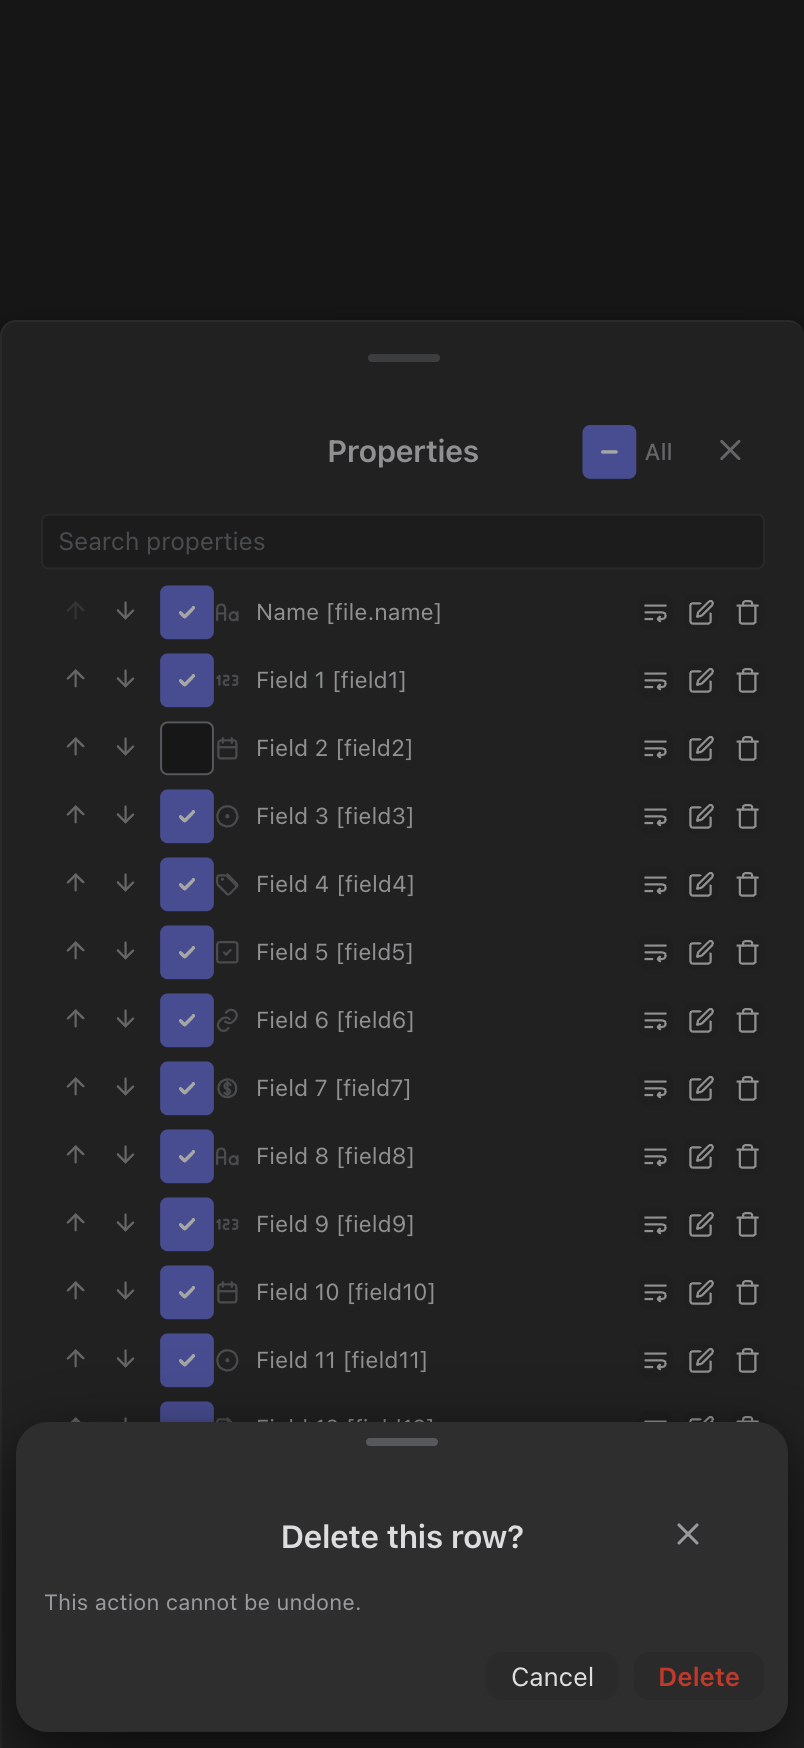
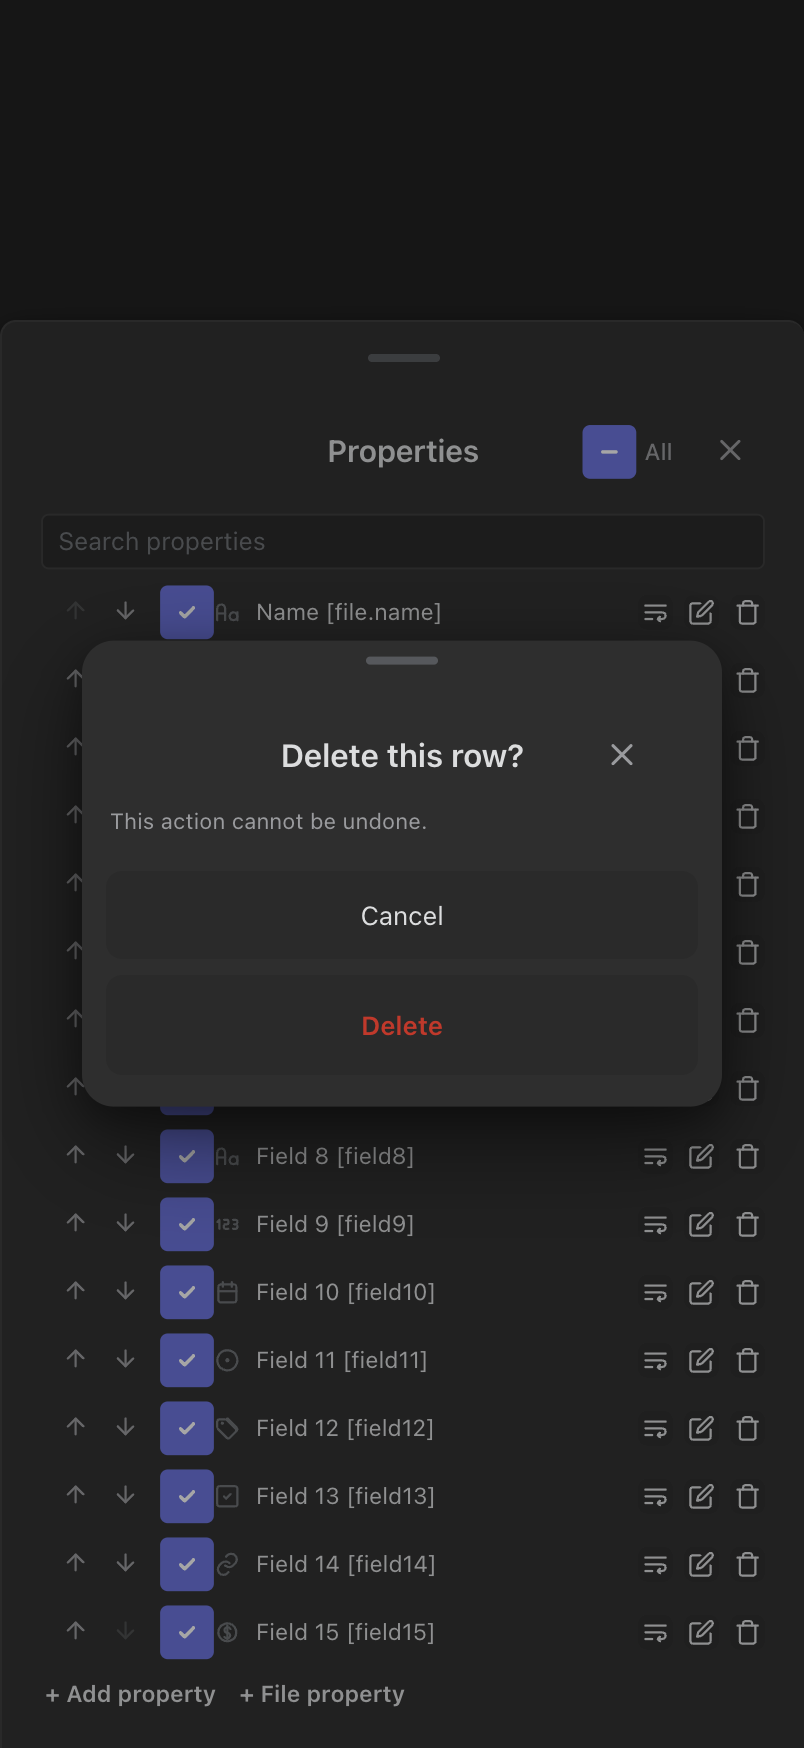
chore(gate): re-derive 061's evidence over 065's record-surface landing
Second rebase, this time onto 065-notion-record-refinement. main.js rebuilt,
every live artefact re-run by its own tool, the capture manifest and the
operator checklist regenerated, and the css lane merged append-only with the
baseline hash recomputed from the merged stylesheet.

The two stacked-confirm captures are recaptured rather than carried across:
065 gave the parent Properties sheet a search field and a taller header, and
the confirm card this packet declares now sits centred over that, so the
picture is the composition of both landings. Four other captures moved only
under the harness's own nondeterminism -- two consecutive runs on one tree
disagree on them -- and were restored to their committed bytes with their
manifest rows keeping the committed pixel hashes and the current source
hashes.

Gate 26/26, vitest 1551/1551, tsc clean, validate.sh --strict PASSED for 061
and for 067.

Claude-Session: https://claude.ai/code/session_0189jHyPTPhrWEWyeFyaGc9Q

diff --git a/specs/005-component-surface-system/operator-checklist.md b/specs/005-component-surface-system/operator-checklist.md
@@ -346,15 +346,10 @@ The figure beside each phase is a count of its own checkboxes. It is derived, ne
 
 - [ ] OPERATOR: the operator answers the adoption question at `../056-board-anytype-parity/notion-screens-digest.md:277-281` — ADR-004, ADR-010 and ADR-011, all three Accepted on the operator's 2026-09-06 18:36 rulings — before any code leg starts, and afterwards reads the Groups panel on iOS and on desktop and reports it as an improvement rather than a fourth place to hunt for a setting. Nothing in this repository can close this row, and an agent never ticks it.
 
-## 061-notion-sheet-refinement — 0/7
+## 061-notion-sheet-refinement — 5/7
 
 - [ ] A single tap on an editable, non-title cell on a phone opens that column's value editor and nothing else — the selection status bar is not built, and `renderSelectionStatusBar` is not reached on the `edit-cell` branch. Today the branch falls through and does both (`database-view.ts:4791-4803`), which is the second of the operator's two captures.
-- [ ] Selection is an explicit mode entered by a long press, and a phone builds no bottom-docked bar at all: `.db-selection-status-bar` renders 0 times and `.db-cell-selection-pill` renders exactly 1, holding exactly three children — the live count, one `Copy`, one `···` — at `flex-wrap: nowrap`, 44px high, measured at 390px CSS width with every child's hit box at or above 44 x 44px. Each of Copy TSV, Copy Markdown, Copy CSV, Paste, Fill, Bulk edit and Clear is reachable within one tap of `···`. Desktop keeps its 30px bar at five children with an anchored `···` menu. Today the bar builds eight children for a one-cell selection (`database-view.ts:7643-7712`) into a `flex-wrap: wrap` row (`styles.css:2650`), and no pill exists in the tree at all. Re-cut 2026-09-06 19:30: this row asked for a six-child bar until the operator's four-reference ruling found that zero of four products dock one (ADR-000, ADR-004).
-- [ ] The pill is anchored to the selection and clamped clear of Obsidian's phone navigation bar as well as the safe area: it sits 8px above the range's top edge, or 8px below where there is no room; its rect stays fully inside the grid's scroll viewport with a >= 8px margin; its bottom edge resolves at or above `max(env(safe-area-inset-bottom), var(--db-mobile-navbar-height, 0px)) + 8px`, the same published value the mobile FAB already reads (`styles.css:22569`), and `--db-mobile-navbar-height` resolves non-zero on a phone container with no FAB. Today the bar's `bottom` carries no navigation term (`styles.css:2646`), which is why the operator's first capture shows the second row under the nav pill, and the publisher runs only inside the New-button build (`toolbar-renderer.ts:2362`).
-- [ ] The destructive confirm presents as a card: inset ≥ 16px on every frame edge, radius `--db-radius-xl` on all four corners, actions stacked full width at ≥ 44px each, on the phone and on desktop, with `openAndWait` still resolving `false` on Escape, outside press and drag. Today it is flush at 0/0/0 (`styles.css:230-232`) with a right-aligned side-by-side action row (`styles.css:8592-8598`).
 - [ ] The operator reads the redesigned cell menu and the confirm card on iOS and says so. Only the operator closes this (parent D3); it is read in the same sitting as `067` AC-011.
-- [ ] `decision-record.md` carries one row per Notion-versus-Anytype conflict the loop named, all eight of them, each with its ruling citation, and the count of landed rulings overridden reads zero.
-- [ ] The grouped-band question is either decided against a re-read of Anytype's own multi-section sheets, or recorded as parked with the re-read named as its precondition. It is not built from Notion alone.
 
 ## 062-notion-table-refinement — 8/9
 
